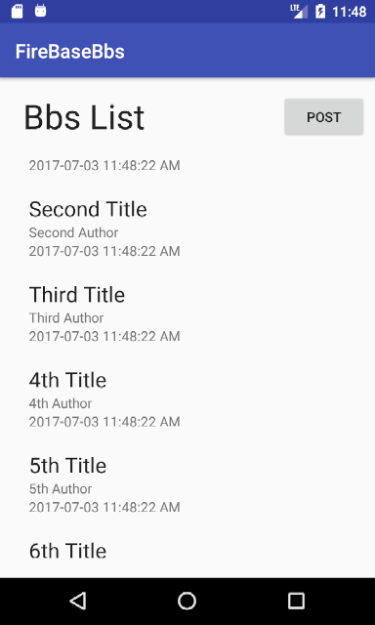
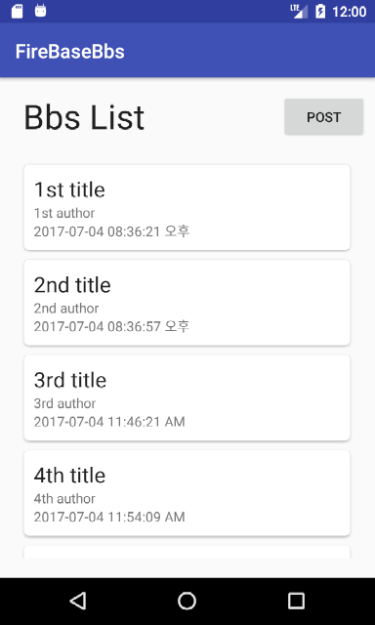
[FireBaseBbs] Date 추가하는 부분 소스코드 수정 ( 기존에 holder에서 추가했는데 저장이 안되서 postDate 로직에 반영하였음. / 카드뷰 사용 )

Changed region(s): [[0.0587, 0.2432, 0.9093, 0.912], [0.9093, 0.0, 0.968, 0.0304]]

diff --git a/Android/Mini Project/FireBaseBbs/app/src/main/java/com/mdy/android/firebasebbs/DetailActivity.java b/Android/Mini Project/FireBaseBbs/app/src/main/java/com/mdy/android/firebasebbs/DetailActivity.java
@@ -3,7 +3,6 @@ package com.mdy.android.firebasebbs;
 import android.os.Bundle;
 import android.support.v7.app.AppCompatActivity;
 import android.view.View;
-import android.widget.Button;
 import android.widget.EditText;
 import android.widget.TextView;
 
@@ -11,11 +10,14 @@ import com.google.firebase.database.DatabaseReference;
 import com.google.firebase.database.FirebaseDatabase;
 import com.mdy.android.firebasebbs.domain.Bbs;
 
+import java.text.SimpleDateFormat;
+import java.util.Date;
+
 public class DetailActivity extends AppCompatActivity {
 
     TextView txtTitle, txtAuthor, txtContent;
     EditText editTextTitle, editTextAuthor, editTextContent;
-    Button btnWrite;
+//    Button btnWrite;
 
     FirebaseDatabase database;
     DatabaseReference bbsRef;
@@ -31,7 +33,7 @@ public class DetailActivity extends AppCompatActivity {
         setViews();
     }
 
-    // 데이터 전송
+    // onClick (데이터 전송)
     public void postData(View view){
         String title = editTextTitle.getText().toString();
         String author = editTextAuthor.getText().toString();
@@ -40,6 +42,7 @@ public class DetailActivity extends AppCompatActivity {
         // 파이어베이스 데이터베이스에 데이터 넣기
         // 1. 데이터 객체 생성
         Bbs bbs = new Bbs(title, author, content);
+        bbs.date = inputCurrentDate();
 
         // 2. 입력할 데이터의 키 생성
         String bbsKey = bbsRef.push().getKey(); // 자동생성된 키를 가져온다.
@@ -47,15 +50,19 @@ public class DetailActivity extends AppCompatActivity {
         // 3. 생성된 키를 레퍼런스로 데이터를 입력
         //   insert와 update, delete 는 동일하게 동작
         bbsRef.child(bbsKey).setValue(bbs);
-
         /* 수정 */
         // bbsRef.child(bbsKey).setValue(bbs)
-
         /* 삭제 */
         // bbsRef.child(bbsKey).setValue(null);
 
-        // 데이터 입력 후 창 닫기
-        finish();
+        finish();   // 데이터 입력 후 창 닫기
+    }
+
+    public String inputCurrentDate(){
+        Date currentTime = new Date();
+        SimpleDateFormat sdf = new SimpleDateFormat("yyyy-MM-dd hh:mm:ss a");
+
+        return sdf.format(currentTime);
     }
 
     public void setViews(){
@@ -63,7 +70,7 @@ public class DetailActivity extends AppCompatActivity {
         txtAuthor = (TextView) findViewById(R.id.txtAuthor);
         txtContent = (TextView) findViewById(R.id.txtContent);
 
-        btnWrite = (Button) findViewById(R.id.btnWrite);
+//        btnWrite = (Button) findViewById(R.id.btnWrite);
 
         editTextTitle = (EditText) findViewById(R.id.editTextTitle);
         editTextAuthor = (EditText) findViewById(R.id.editTextAuthor);

diff --git a/Android/Mini Project/FireBaseBbs/app/src/main/java/com/mdy/android/firebasebbs/CustomAdapter.java b/Android/Mini Project/FireBaseBbs/app/src/main/java/com/mdy/android/firebasebbs/CustomAdapter.java
@@ -9,9 +9,7 @@ import android.widget.TextView;
 
 import com.mdy.android.firebasebbs.domain.Bbs;
 
-import java.text.SimpleDateFormat;
 import java.util.ArrayList;
-import java.util.Date;
 import java.util.List;
 
 /**
@@ -43,10 +41,10 @@ public class CustomAdapter extends RecyclerView.Adapter<CustomAdapter.Holder> {
 
         holder.title.setText(bbs.title);
         holder.author.setText(bbs.author);
-
-        Date currentTime = new Date();
-        SimpleDateFormat sdf = new SimpleDateFormat("yyyy-MM-dd hh:mm:ss a");
-        holder.date.setText(sdf.format(currentTime));
+        holder.date.setText(bbs.date);
+//        Date currentTime = new Date();
+//        SimpleDateFormat sdf = new SimpleDateFormat("yyyy-MM-dd hh:mm:ss a");
+//        holder.date.setText(sdf.format(currentTime));
     }
 
 

diff --git a/Android/Mini Project/FireBaseBbs/app/src/main/java/com/mdy/android/firebasebbs/ListActivity.java b/Android/Mini Project/FireBaseBbs/app/src/main/java/com/mdy/android/firebasebbs/ListActivity.java
@@ -56,13 +56,11 @@ public class ListActivity extends AppCompatActivity {
                 refreshData(list);
             }
 
-
             @Override
             public void onCancelled(DatabaseError databaseError) {
 
             }
         });
-
     }
 
     public void refreshData(List<Bbs> data){

diff --git a/Android/Mini Project/FireBaseBbs/app/src/main/java/com/mdy/android/firebasebbs/domain/Bbs.java b/Android/Mini Project/FireBaseBbs/app/src/main/java/com/mdy/android/firebasebbs/domain/Bbs.java
@@ -9,7 +9,7 @@ public class Bbs {
     public String title;
     public String author;
     public String content;
-    public long date;
+    public String date;
     public long count; // 조회수
 
     public Bbs(){
